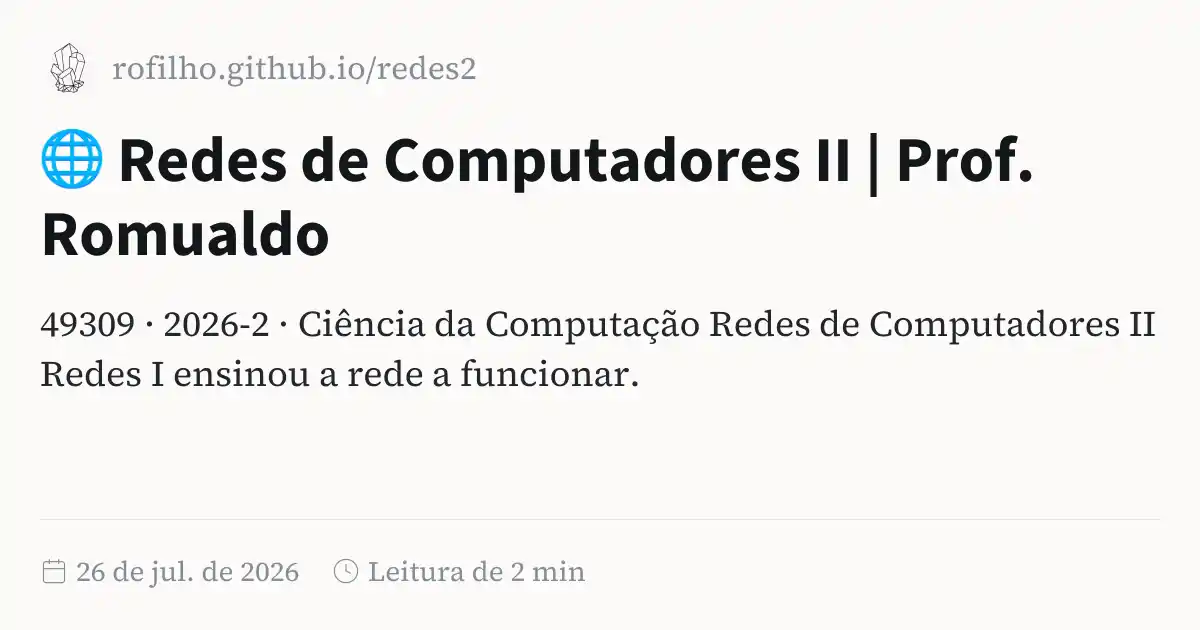
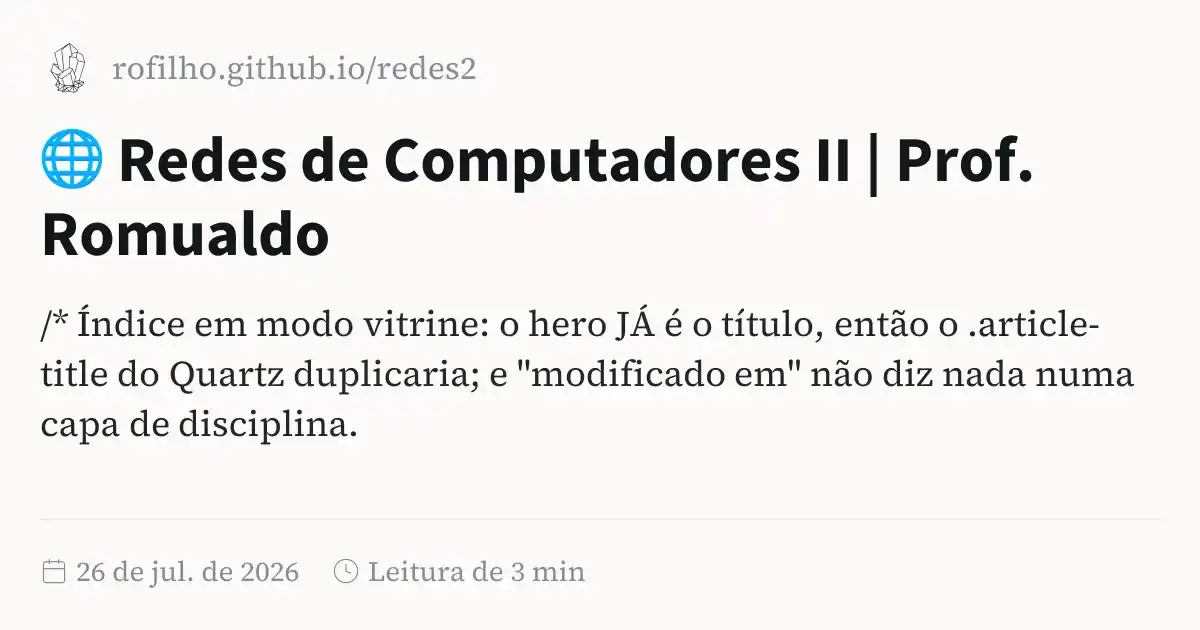
fix(portal): oculta article-title e content-meta no indice
O hero do modo vitrine ja carrega o titulo da disciplina, entao o
.article-title do Quartz aparecia duplicado, com um "modificado em"
logo abaixo que nao diz nada numa capa de disciplina.

O <style> fica dentro do <article>, que o Quartz troca inteiro ao
navegar (enableSPA), por isso a regra nao escapa para as paginas de
aula — verificado no HTML gerado das duas.

Changed region(s): [[0.0308, 0.4825, 0.9867, 0.5429], [0.0308, 0.573, 0.9558, 0.6333], [0.0308, 0.6635, 0.3083, 0.6937]]

diff --git a/public/index.html b/public/index.html
@@ -1,5 +1,5 @@
 <!DOCTYPE html>
-<html lang="pt" dir="ltr"><head><title>🌐 Redes de Computadores II | Prof. Romualdo</title><meta charset="utf-8"/><link rel="preconnect" href="https://fonts.googleapis.com"/><link rel="preconnect" href="https://fonts.gstatic.com"/><link rel="stylesheet" href="https://fonts.googleapis.com/css2?family=Source Sans 3:wght@400;700&amp;family=Source Serif 4:ital,wght@0,400;0,600;1,400;1,600&amp;family=JetBrains Mono:wght@400;600&amp;display=swap"/><link rel="preconnect" href="https://cdnjs.cloudflare.com" crossorigin="anonymous"/><meta name="viewport" content="width=device-width, initial-scale=1.0"/><meta name="og:site_name" content="🌐 Redes de Computadores II"/><meta property="og:title" content="🌐 Redes de Computadores II | Prof. Romualdo"/><meta property="og:type" content="website"/><meta name="twitter:card" content="summary_large_image"/><meta name="twitter:title" content="🌐 Redes de Computadores II | Prof. Romualdo"/><meta name="twitter:description" content="49309 · 2026-2 · Ciência da Computação Redes de Computadores II Redes I ensinou a rede a funcionar."/><meta property="og:description" content="49309 · 2026-2 · Ciência da Computação Redes de Computadores II Redes I ensinou a rede a funcionar."/><meta property="og:image:alt" content="49309 · 2026-2 · Ciência da Computação Redes de Computadores II Redes I ensinou a rede a funcionar."/><meta property="twitter:domain" content="rofilho.github.io/redes2"/><meta property="og:url" content="https://rofilho.github.io/redes2/index"/><meta property="twitter:url" content="https://rofilho.github.io/redes2/index"/><link rel="icon" href="./static/icon.png"/><meta name="description" content="49309 · 2026-2 · Ciência da Computação Redes de Computadores II Redes I ensinou a rede a funcionar."/><meta name="generator" content="Quartz"/><link href="./index.css" rel="stylesheet" type="text/css" data-persist="true"/><style>.expand-button {
+<html lang="pt" dir="ltr"><head><title>🌐 Redes de Computadores II | Prof. Romualdo</title><meta charset="utf-8"/><link rel="preconnect" href="https://fonts.googleapis.com"/><link rel="preconnect" href="https://fonts.gstatic.com"/><link rel="stylesheet" href="https://fonts.googleapis.com/css2?family=Source Sans 3:wght@400;700&amp;family=Source Serif 4:ital,wght@0,400;0,600;1,400;1,600&amp;family=JetBrains Mono:wght@400;600&amp;display=swap"/><link rel="preconnect" href="https://cdnjs.cloudflare.com" crossorigin="anonymous"/><meta name="viewport" content="width=device-width, initial-scale=1.0"/><meta name="og:site_name" content="🌐 Redes de Computadores II"/><meta property="og:title" content="🌐 Redes de Computadores II | Prof. Romualdo"/><meta property="og:type" content="website"/><meta name="twitter:card" content="summary_large_image"/><meta name="twitter:title" content="🌐 Redes de Computadores II | Prof. Romualdo"/><meta name="twitter:description" content="/* Índice em modo vitrine: o hero JÁ é o título, então o .article-title do Quartz duplicaria; e &quot;modificado em&quot; não diz nada numa capa de disciplina."/><meta property="og:description" content="/* Índice em modo vitrine: o hero JÁ é o título, então o .article-title do Quartz duplicaria; e &quot;modificado em&quot; não diz nada numa capa de disciplina."/><meta property="og:image:alt" content="/* Índice em modo vitrine: o hero JÁ é o título, então o .article-title do Quartz duplicaria; e &quot;modificado em&quot; não diz nada numa capa de disciplina."/><meta property="twitter:domain" content="rofilho.github.io/redes2"/><meta property="og:url" content="https://rofilho.github.io/redes2/index"/><meta property="twitter:url" content="https://rofilho.github.io/redes2/index"/><link rel="icon" href="./static/icon.png"/><meta name="description" content="/* Índice em modo vitrine: o hero JÁ é o título, então o .article-title do Quartz duplicaria; e &quot;modificado em&quot; não diz nada numa capa de disciplina."/><meta name="generator" content="Quartz"/><link href="./index.css" rel="stylesheet" type="text/css" data-persist="true"/><style>.expand-button {
   position: absolute;
   display: flex;
   float: right;
@@ -115,7 +115,17 @@ pre:hover > .expand-button {
   padding: 0 12px;
   font-size: 14px;
 }
[2 lines of base64/hex data omitted]
+/* Índice em modo vitrine: o hero JÁ é o título, então o .article-title do
+   Quartz duplicaria; e &quot;modificado em&quot; não diz nada numa capa de disciplina.
+   O &lt;style> mora dentro do &lt;article>, que o Quartz troca inteiro ao navegar
+   (enableSPA) — por isso a regra não escapa para as páginas de aula. */
+.article-title,
+.content-meta {
+  display: none;
+}
+</style>
+<div class="au-vitrine">
 <div class="au-hero">
   <span class="au-badge">49309 · 2026-2 · Ciência da Computação</span>
   <h1 id="redes-de-computadores-ii">Redes de Computadores II<a role="anchor" aria-hidden="true" tabindex="-1" data-no-popover="true" href="#redes-de-computadores-ii" class="internal"><svg width="18" height="18" viewBox="0 0 24 24" fill="none" stroke="currentColor" stroke-width="2" stroke-linecap="round" stroke-linejoin="round"><path d="M10 13a5 5 0 0 0 7.54.54l3-3a5 5 0 0 0-7.07-7.07l-1.72 1.71"></path><path d="M14 11a5 5 0 0 0-7.54-.54l-3 3a5 5 0 0 0 7.07 7.07l1.71-1.71"></path></svg></a></h1>

diff --git a/content/index.md b/content/index.md
@@ -2,6 +2,17 @@
 title: "🌐 Redes de Computadores II"
 ---
 
+<style>
+/* Índice em modo vitrine: o hero JÁ é o título, então o .article-title do
+   Quartz duplicaria; e "modificado em" não diz nada numa capa de disciplina.
+   O <style> mora dentro do <article>, que o Quartz troca inteiro ao navegar
+   (enableSPA) — por isso a regra não escapa para as páginas de aula. */
+.article-title,
+.content-meta {
+  display: none;
+}
+</style>
+
 <div class="au-vitrine">
 
 <div class="au-hero">
